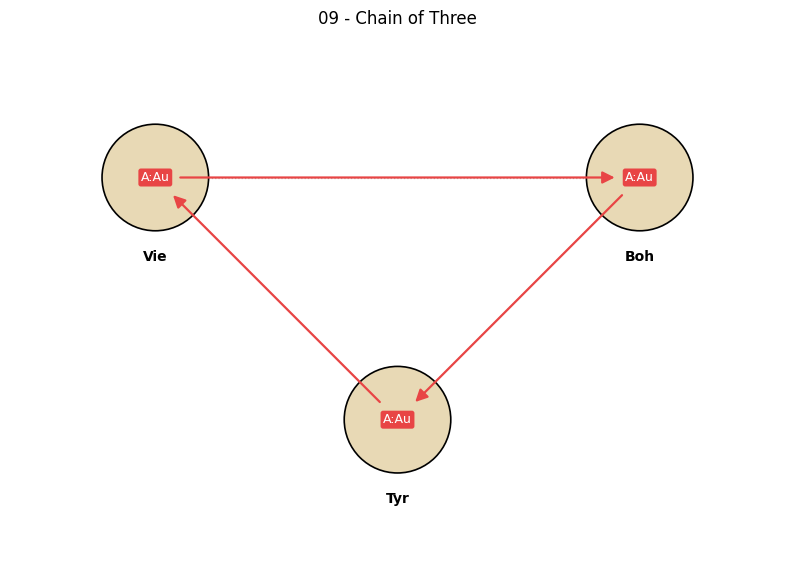
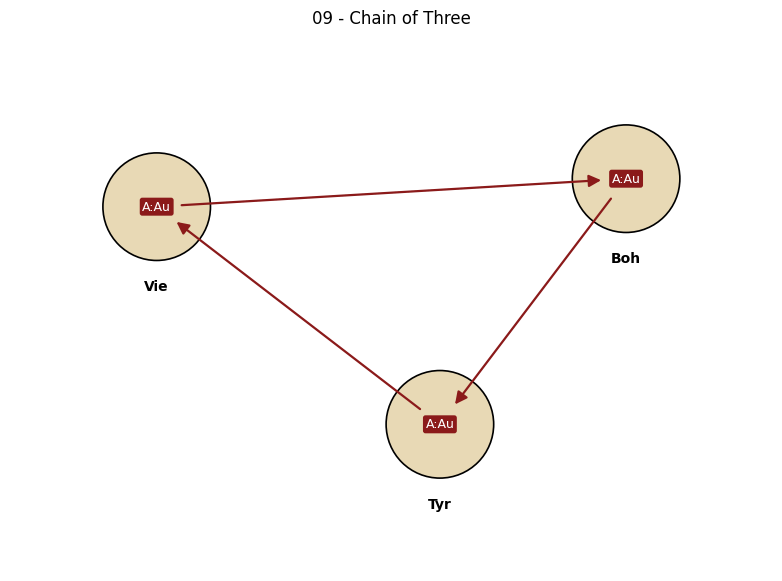
style(dwex): muted nation palette + deterministic field-jitter
Nation colors stay near the classic Diplomacy convention but avoid signal
tones that read poorly on a rendered page:

  Au  red          -> dark red       (avoids stop-sign red)
  En  dark blue    -> kept
  Fr  light blue   -> dark cyan      (visible on white)
  Ge  black        -> warm brown     (less harsh than pure black)
  It  green        -> dark green
  Ru  white        -> tan/khaki      (kept from prior visibility fix)
  Tu  yellow       -> orange         (readable contrast)

Field positions get a deterministic per-name jitter of ±20% on each axis.
Same field name -> same offset -> PNGs stay stable in git. Examples
authored on strict grids now render as gently scattered nodes; the
relational structure is unchanged but the diagram looks less synthetic.

examples/README.md table updated; the original-convention column makes
the shift transparent. Jitter note added under Background elements.

diff --git a/project/dipworkpy/tools/dwex/render_png.py b/project/dipworkpy/tools/dwex/render_png.py
@@ -1,9 +1,10 @@
 """DDL -> PNG via matplotlib."""
 from __future__ import annotations
 
+import hashlib
 import math
 from pathlib import Path
-from typing import Dict
+from typing import Dict, Tuple
 
 import matplotlib
 matplotlib.use("Agg")
@@ -21,15 +22,24 @@ from dipworkpy.tools.dwex.model import DwexDocument
 # Russia is traditionally rendered white in Diplomacy; bumped to khaki/tan
 # here so it stays visible on a white page.
 
+# Convention follows the classic Diplomacy palette, shifted away from any
+# pure signal-red/yellow/white tone:
+#   Au red       -> dark red       (avoids stop-sign red)
+#   En dark blue -> kept as is
+#   Fr light blue-> dark cyan/teal (no longer washes out on white)
+#   Ge black     -> warm brown     (less harsh than pure black on a diagram)
+#   It green     -> dark green
+#   Ru white     -> tan/khaki      (visible on white)
+#   Tu yellow    -> orange         (more readable, still warm)
 NATION_COLORS: Dict[str, str] = {
-    "Au": "#E84545",  # Austria   - red
-    "En": "#3A5BA0",  # England   - blue
-    "Fr": "#79B8E0",  # France    - light blue
-    "Ge": "#444444",  # Germany   - dark grey
-    "It": "#3DA34D",  # Italy     - green
-    "Ru": "#c8a878",  # Russia    - tan/khaki (was near-white, invisible)
-    "Tu": "#F2C94C",  # Turkey    - yellow
-    "Xx": "#888888",  # neutral   - mid grey
+    "Au": "#8b1a1a",  # Austria-Hungary - dark red
+    "En": "#3a5ba0",  # England         - dark blue
+    "Fr": "#0e7490",  # France          - dark cyan
+    "Ge": "#6d4c41",  # Germany         - warm brown
+    "It": "#1b5e20",  # Italy           - dark green
+    "Ru": "#c8a878",  # Russia          - tan / khaki
+    "Tu": "#e67e22",  # Turkey          - orange
+    "Xx": "#888888",  # neutral         - mid grey
 }
 
 FIELD_COLORS = {
@@ -47,10 +57,28 @@ def _line_style(expected_failed: bool) -> str:
     return "dashed" if expected_failed else "solid"
 
 
+def _jitter(name: str, amount: float = 0.2) -> Tuple[float, float]:
+    """Deterministic per-name offset in (-amount, +amount) for both axes.
+
+    Same field name -> same offset across renders, so PNGs stay stable in
+    git, but exact grid alignment is broken so diagrams look less synthetic.
+    """
+    digest = hashlib.md5(name.encode("utf-8")).digest()
+    dx = (digest[0] / 255.0 * 2.0 - 1.0) * amount
+    dy = (digest[1] / 255.0 * 2.0 - 1.0) * amount
+    return dx, dy
+
+
 def render_png(doc: DwexDocument, out: Path) -> None:
     fig, ax = plt.subplots(figsize=(10, 7), dpi=100)
 
-    pos = {f.name: (f.x, f.y) for f in doc.fields}
+    # Jitter field positions deterministically (per-name hash) so the diagram
+    # doesn't read as a strict grid. Position-dependent renders (labels, edges,
+    # arrows, supports) all read from `pos`, so they follow the jittered values.
+    pos = {}
+    for f in doc.fields:
+        dx, dy = _jitter(f.name)
+        pos[f.name] = (f.x + dx, f.y + dy)
 
     # adjacency edges — subtle dotted light-gray; order arrows below carry the prominence
     for e in doc.edges:
@@ -60,10 +88,10 @@ def render_png(doc: DwexDocument, out: Path) -> None:
         x2, y2 = pos[e.b]
         ax.plot([x1, x2], [y1, y2], color="#bbbbbb", linestyle=":", lw=0.9, zorder=1)
 
-    # fields
+    # fields — drawn at the jittered positions stored in `pos`
     radius = 0.22
     for f in doc.fields:
-        x, y = f.x, f.y
+        x, y = pos[f.name]
         fc = FIELD_COLORS.get(f.type, "#FFFFFF")
         ax.add_patch(Circle((x, y), radius, facecolor=fc, edgecolor="black",
                             lw=1.2, zorder=2))
@@ -185,9 +213,9 @@ def render_png(doc: DwexDocument, out: Path) -> None:
     # title
     ax.set_title(doc.title, fontsize=12)
 
-    # styling
-    xs = [f.x for f in doc.fields]
-    ys = [f.y for f in doc.fields]
+    # styling — use jittered positions so axis limits enclose the rendered nodes
+    xs = [p[0] for p in pos.values()]
+    ys = [p[1] for p in pos.values()]
     if xs and ys:
         pad = 0.6
         ax.set_xlim(min(xs) - pad, max(xs) + pad)

diff --git a/project/doc/examples/README.md b/project/doc/examples/README.md
@@ -35,18 +35,18 @@ The renderer uses three independent visual axes. Each axis communicates exactly 
 
 The same color is used for the unit badge AND every order issued by that nation. A red filled-triangle on a solid arrow means "Austria's army successfully moved." A red dashed filled-triangle means "Austria attempted to move; it bounced or was invalid."
 
-| Nation         | Color                |
-|----------------|----------------------|
-| Au — Austria   | red `#E84545`        |
-| En — England   | blue `#3A5BA0`       |
-| Fr — France    | light blue `#79B8E0` |
-| Ge — Germany   | dark grey `#444444`  |
-| It — Italy     | green `#3DA34D`      |
-| Ru — Russia    | tan `#c8a878`        |
-| Tu — Turkey    | yellow `#F2C94C`     |
-| Xx — neutral   | grey `#888888`       |
+| Nation                | Color                  | Original convention |
+|-----------------------|------------------------|---------------------|
+| Au — Austria-Hungary  | dark red `#8b1a1a`     | red                 |
+| En — England          | dark blue `#3a5ba0`    | dark blue           |
+| Fr — France           | dark cyan `#0e7490`    | light blue          |
+| Ge — Germany          | warm brown `#6d4c41`   | black               |
+| It — Italy            | dark green `#1b5e20`   | green               |
+| Ru — Russia           | tan `#c8a878`          | white               |
+| Tu — Turkey           | orange `#e67e22`       | yellow              |
+| Xx — neutral / empty  | grey `#888888`         | (none)              |
 
-(Russia is traditionally rendered white in Diplomacy; bumped to tan here so it stays visible on a white page.)
+The original Diplomacy board palette had several colours that don't read well on a printed/rendered page: pure red is a visual emergency signal, pure white disappears on white paper, pure yellow lacks contrast, and pure black is heavier than the surrounding linework. Each was shifted toward a darker / warmer / more saturated cousin while staying in the same hue family.
 
 ### Reading examples
 
@@ -67,6 +67,8 @@ Combining the three axes:
 | Sea field          | pale blue circle (`O`)                             |
 | Off-map / impass.  | grey circle (`COL`)                                |
 | Adjacency edge     | dotted light grey, lw 0.9 — receded so order arrows stand out |
+
+Field positions in the rendered PNGs are jittered by up to 20 % per axis (deterministic — same field name → same offset, so PNGs are stable in git). Examples authored on a strict grid render as gently scattered nodes rather than as straight rows and columns; the structural relations stay intact while the diagram looks less artificial.
 
 The unit badge is a small `boxstyle="round"` rectangle in the nation color, centred on the field, with white text `"<utype>:<nation>"` (e.g. `A:Au`, `F:En`).
 
